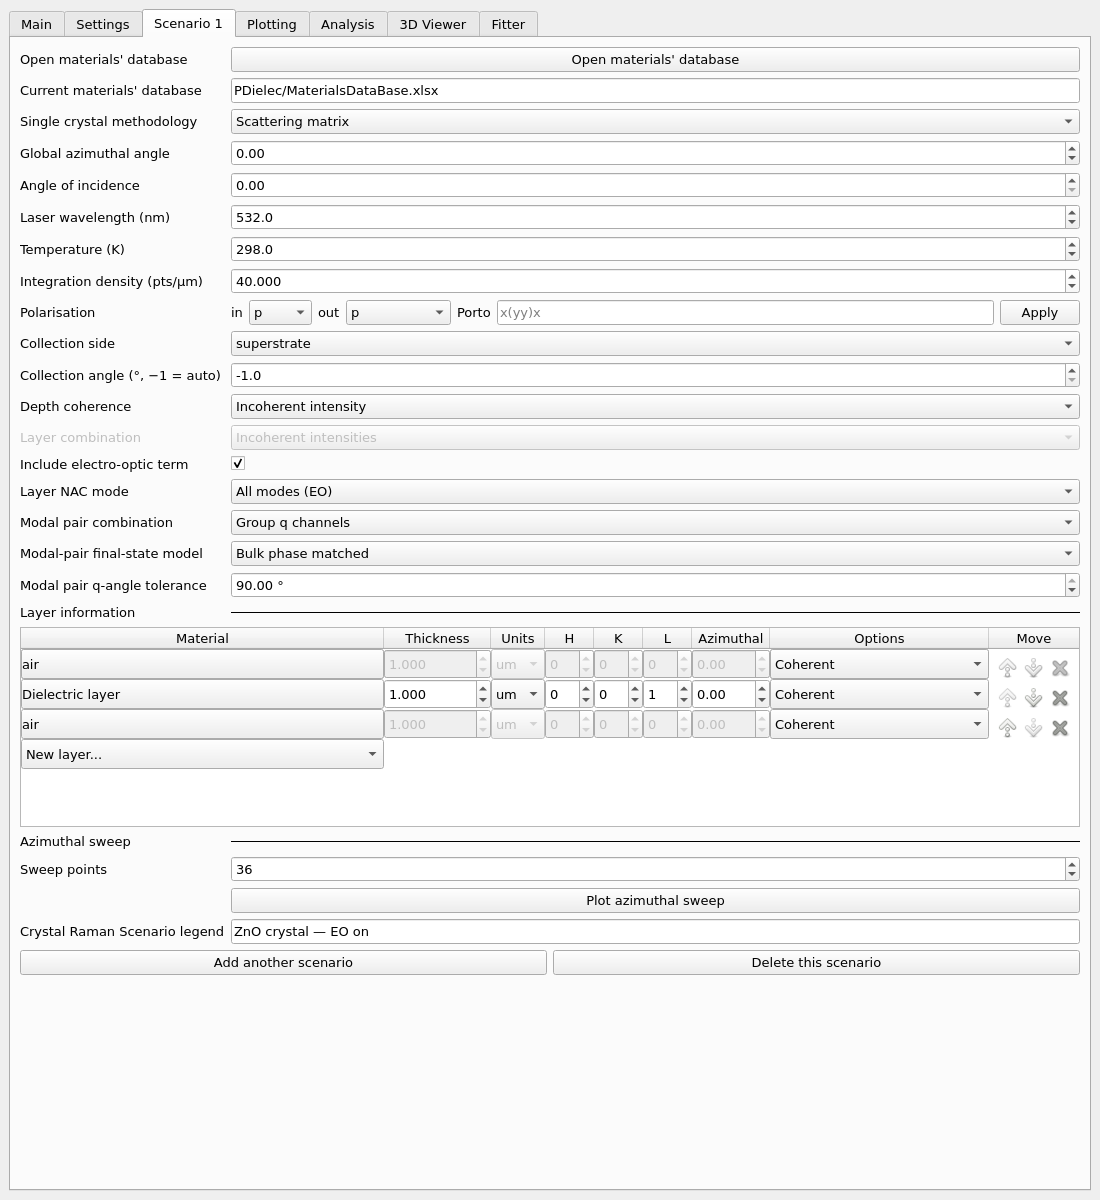
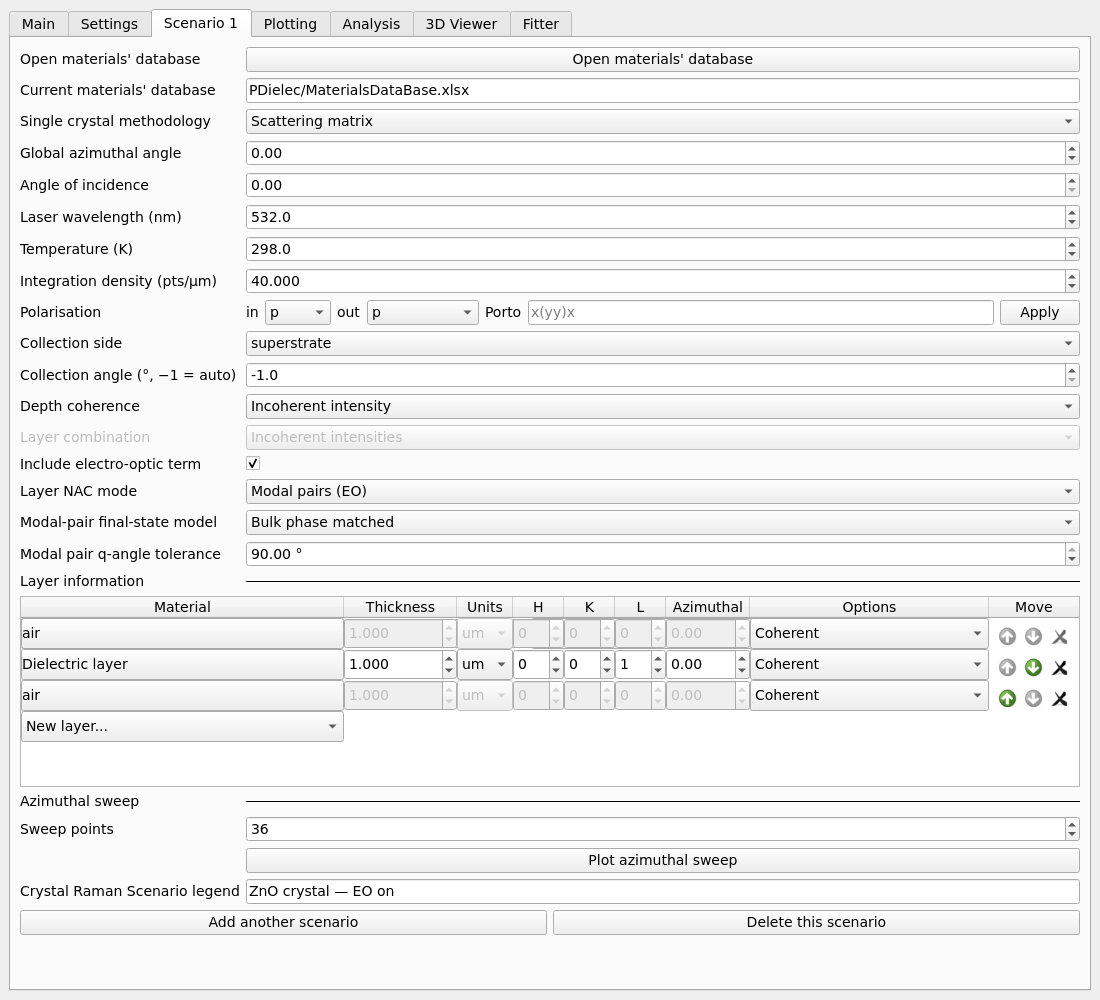
New documentation for the changes to the Raman Crystal GUI tab. The tab no longer shows alternatives to Q grouping.  Modal-pairs has replaced "All modes"

diff --git a/Sphinx/pdgui.rst b/Sphinx/pdgui.rst
@@ -447,7 +447,7 @@ The *Layer NAC mode* chooses the phonon-frequency treatment:
        wavevector for the non-analytic correction. This is the default.
    * - Dominant mode
      - Use the dominant internal optical eigenmode to determine that direction.
-   * - All modes
+   * - Modal pairs
      - Resolve incident/scattered internal propagation-channel pairs, allowing
        more than one corrected frequency for an original TO mode.
 
@@ -459,19 +459,23 @@ optical propagation with the transfer/scattering matrix. See
 
 .. figure:: _static/Figures/gui/crystal-raman-all-modes.png
    :width: 100%
-   :alt: All modes EO selection exposing modal-pair combination, final-state model and q-angle tolerance.
+   :alt: Crystal Raman Scenario tab with Modal pairs (EO), Bulk phase matched final-state model and 90-degree q-angle tolerance.
 
-   The additional controls shown for All modes (EO).
+   The Crystal Raman Scenario tab with Modal pairs (EO) selected. Incoherent
+   depth enables the Bulk phase matched final-state model and q-angle tolerance.
+   Group q channels is the default; diagnostic combination options are available
+   through scripting.
 
-*Modal pair combination* offers Group q channels (default), Incoherent pairs
-and Coherent all pairs. Group q channels combines amplitudes for the same
-phonon final state before summing intensities over different states. The other
-two choices are diagnostic alternatives. *Modal-pair final-state model*
+Modal pairs uses Group q channels by default, combining amplitudes for the
+same phonon final state before summing intensities over different states.
+The diagnostic alternatives Incoherent pairs and Coherent all pairs are
+available only through the ``Modal pair combination`` script setting; there
+is no combination dropdown in the GUI. *Modal-pair final-state model*
 distinguishes Bulk phase matched from Local incoherent for incoherent-depth,
 grouped-q calculations. In the bulk model *Modal pair q-angle tolerance*,
 initially 90°, controls the accepted directions relative to the external
 momentum transfer. It is inactive for Local incoherent. Controls are enabled
-only where their combination is meaningful; a hidden All modes control does
+only where their combination is meaningful; a hidden Modal pairs control does
 not change the Snell's-law calculation.
 
 The layer-table columns and editor are shared with Crystal Infrared. Raman
@@ -840,7 +844,7 @@ and should be recorded when reporting results.
 The powder Raman wavelength in nm is stored as ``Raman laser wavelength``.
 The crystal NAC selector uses
 ``Layer NAC mode`` values ``none``, ``geometry``, ``dominant_mode`` and
-``modal_pairs`` for TO, Snell's law, Dominant mode and All modes respectively.
+``modal_pairs`` for TO, Snell's law, Dominant mode and Modal pairs respectively.
 Use the saved script as the starting point rather than guessing visible-label
 spellings. In an interactive script, request a refresh after changing settings.
 

diff --git a/Sphinx/application_notes_gan.rst b/Sphinx/application_notes_gan.rst
@@ -19,7 +19,7 @@ example, not a powder measurement reported in either paper.
 
 .. important::
 
-   PDGui's *All modes* treatment resolves internal optical-mode pairs for
+   PDGui's *Modal pairs* treatment resolves internal optical-mode pairs for
    the directional, zone-centre non-analytical correction (NAC). It does
    not calculate finite-wavevector phonon-polariton dispersion. The separate
    ``polariton_response.py`` script illustrates that additional physics.
@@ -313,11 +313,12 @@ Choosing the NAC treatment
    * - Dominant mode
      - ``dominant_mode``
      - One direction from the dominant internal optical mode
-   * - All modes
+   * - Modal pairs
      - ``modal_pairs``
      - Resolve incident and scattered internal mode pairs
 
-For *All modes*, use *Modal pair combination = Group q channels*,
+For *Modal pairs*, keep the default grouped q channels (the script setting
+``Modal pair combination = 'Group q channels'``), and select
 *Modal-pair final-state model = Bulk phase matched* and
 *Modal pair q-angle tolerance = 90 degrees*. Keep the EO option off;
 otherwise the GUI may append ``(EO)`` to the NAC label. The Settings Tab
@@ -332,7 +333,7 @@ The optical-pair momentum is
 
 In a birefringent material, interchanging ordinary and extraordinary
 polarisations changes these internal wavevectors even when the external
-rays are unchanged. *All modes* retains this information. *Group q
+rays are unchanged. *Modal pairs* retains this information. *Group q
 channels* adds amplitudes leading to the same phonon final state before
 squaring, and adds intensities for distinct final states. It does not
 simply add the intensities of every optical pair independently.
@@ -348,7 +349,7 @@ polar-band interval in the scripts, this window also includes
 Reading the results against Mina et al.
 ~~~~~~~~~~~~~~~~~~~~~~~~~~~~~~~~~~~~~~~
 
-.. list-table:: Regenerated integrated intensity, All modes / Snell's law
+.. list-table:: Regenerated integrated intensity, Modal pairs / Snell's law
    :header-rows: 1
 
    * - External incidence
@@ -540,7 +541,7 @@ channel intensities.
 --------------------------------------------
 
 Load ``gan_incoherent_models.py`` from
-``GaN/ModalPairs/IncoherentModels``. The 32 scenarios keep *All modes*,
+``GaN/ModalPairs/IncoherentModels``. The 32 scenarios keep *Modal pairs*,
 *Group q channels* and *Depth coherence = Incoherent intensity*. They
 repeat the four polarisations at 0 and 2 degrees for two final-state
 models and two q-angle tolerances, 0 and 90 degrees.

diff --git a/Sphinx/CrystalRaman.rst b/Sphinx/CrystalRaman.rst
@@ -433,10 +433,10 @@ alternatives for solving the optical propagation problem.
    eigenvalue by incident polarization; it does not maximize modal field
    strength. Both solves use the original stack and its superstrate index.
    This is an equal-frequency directional estimate, not the per-branch finite
-   Stokes momentum used by *All modes*. General anisotropic outgoing-channel
+   Stokes momentum used by *Modal pairs*. General anisotropic outgoing-channel
    tracking is not supplied by this approximation.
 
-**All modes — per Berreman q-channel-pair NAC** (GUI label: *All modes* or *All modes (EO)*)
+**Modal pairs — per Berreman q-channel-pair NAC** (GUI label: *Modal pairs* or *Modal pairs (EO)*)
    This level decomposes the incident and reciprocal scattered fields into Berreman
    propagation channels in each Raman-active layer.  Numerically distinct Berreman
    eigenvectors whose real reduced :math:`q_z` differs from a group's first
@@ -725,7 +725,7 @@ When the electro-optic option is enabled, :math:`\tensorbs{\chi}^{(2)}` data are
 and any level other than *TO* is
 selected, PDielec applies the EO correction to every NAC-rotated Raman tensor before
 computing the Raman spectrum.  The GUI labels for the three NAC levels then show an
-*(EO)* suffix (*Snell's law (EO)*, *Dominant mode (EO)*, *All modes (EO)*) to make
+*(EO)* suffix (*Snell's law (EO)*, *Dominant mode (EO)*, *Modal pairs (EO)*) to make
 clear that the electro-optic correction is active.  A log message also confirms this
 at calculation time.
 

diff --git a/Sphinx/settings_reference.rst b/Sphinx/settings_reference.rst
@@ -439,11 +439,17 @@ NAC/EO corrections and the different coherence choices.
     ``'none'`` uses bulk TO modes; ``'geometry'`` (default, displayed as
     *Snell's law*) obtains phonon momentum from the macroscopic geometry;
     ``'dominant_mode'`` uses the dominant internal Berreman mode;
-    ``'modal_pairs'`` (*All modes*) resolves the internal optical mode pairs.
+    ``'modal_pairs'`` (*Modal pairs*) resolves the internal optical mode pairs.
+    The GUI displays *Modal pairs (EO)* when the electro-optic term is active.
+    The earlier labels ``'All modes'`` and ``'All modes (EO)'`` remain accepted
+    as settings values and are converted to ``'modal_pairs'``; the current
+    display labels are also accepted. Saved scripts using ``'modal_pairs'``
+    continue to work unchanged.
     GUI labels may append *(EO)*; that suffix is not part of the stored value.
 
 ``Modal pair combination``
-    Used with ``Layer NAC mode = 'modal_pairs'``. ``'Group q channels'``
+    Script-only setting; there is no GUI dropdown. Used with
+    ``Layer NAC mode = 'modal_pairs'``. ``'Group q channels'``
     (default) combines amplitudes sharing a phonon momentum and detector
     channel. ``'Incoherent pairs'`` squares pairs separately for comparison
     with older calculations. ``'Coherent all pairs'`` is a diagnostic option
